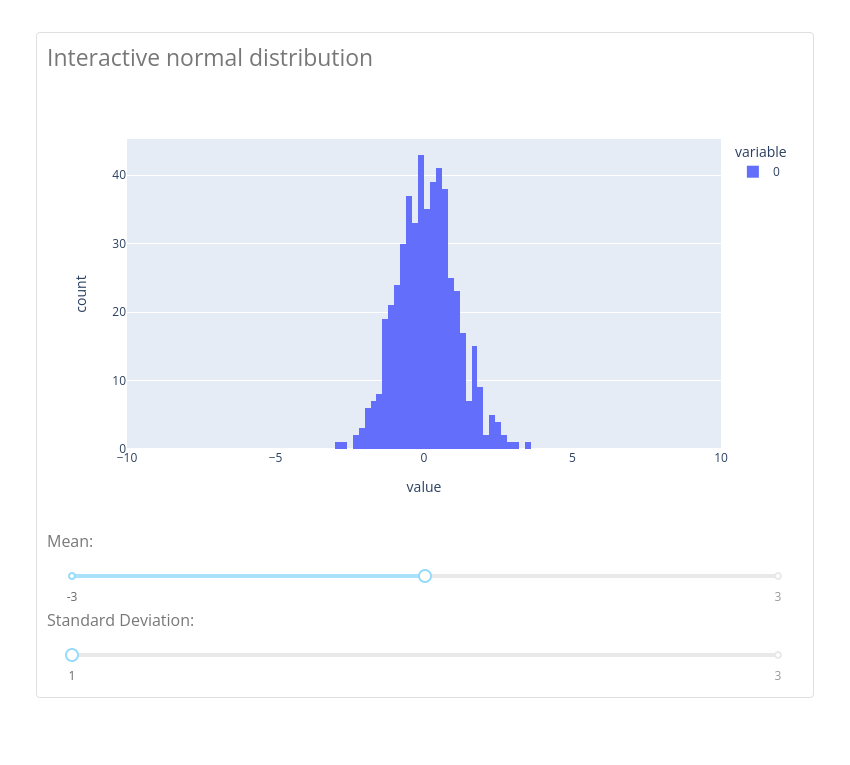
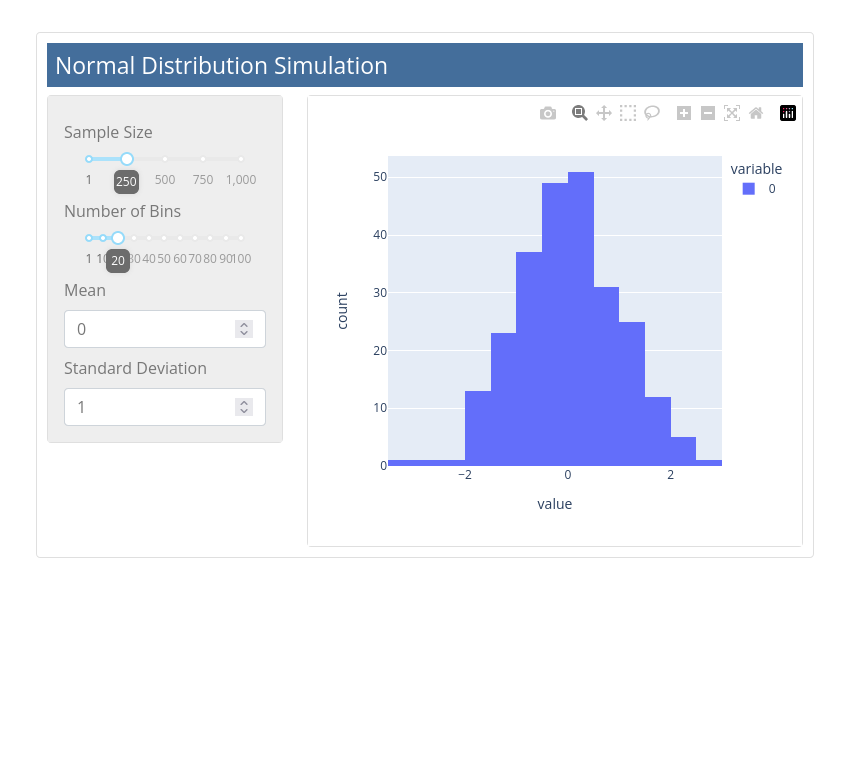
updated histogram app

diff --git a/examples/histograms.py b/examples/histograms.py
@@ -1,35 +1,80 @@
-from dash import Dash, dcc, html, Input, Output
-import plotly.express as px
+from dash import Dash, html, dcc, Input, Output
 import numpy as np
+import plotly.express as px
+import dash_bootstrap_components as dbc
 
-app = Dash(__name__)
+app = Dash(__name__, external_stylesheets=[dbc.themes.SPACELAB])
 
+heading = html.H4(
+    "Normal Distribution Simulation", className="bg-primary text-white p-2"
+)
+
+
+sample_size = html.Div(
+    [
+        dbc.Label("Sample Size", html_for="size"),
+        dcc.Slider(1, 1000, value=250, id="histograms-x-size",
+            tooltip={"placement": "bottom", "always_visible": True},
+        ),
+    ],
+    className="mt-2",
+)
+
+
+n_bins = html.Div(
+    [
+        dbc.Label("Number of Bins", html_for="n_bins"),
+        dcc.Slider(1, 100, 10, value=20, id="histograms-x-n_bins",
+            tooltip={"placement": "bottom", "always_visible": True},
+        ),
+    ],
+    className="mt-2",
+)
+
+mean = html.Div(
+    [dbc.Label("Mean", html_for="mean"), dbc.Input(id="histograms-x-mean", type="number", value=0)],
+    className="mt-2",
+)
+
+std_dev = html.Div(
+    [
+        dbc.Label("Standard Deviation", html_for="std_dev"),
+        dbc.Input(id="histograms-x-std_dev",type="number", value=1),
+    ],
+    className="mt-2",
+)
+
+control_panel = dbc.Card(
+    dbc.CardBody(
+        [sample_size, n_bins, mean, std_dev],
+        className="bg-light",
+    )
+)
+
+graph = dbc.Card(
+    [html.Div(id="histograms-x-error_msg", className="text-danger"), dcc.Graph(id="histograms-x-graph")]
+)
 
 app.layout = html.Div(
-    [
-        html.H4("Interactive normal distribution"),
-        dcc.Graph(id="histograms-x-graph"),
-        html.P("Mean:"),
-        dcc.Slider(
-            id="histograms-x-mean", min=-3, max=3, value=0, marks={-3: "-3", 3: "3"}
-        ),
-        html.P("Standard Deviation:"),
-        dcc.Slider(
-            id="histograms-x-std", min=1, max=3, value=1, marks={1: "1", 3: "3"}
-        ),
-    ]
+    [heading, dbc.Row([dbc.Col(control_panel, md=4), dbc.Col(graph, md=8)])]
 )
 
 
 @app.callback(
     Output("histograms-x-graph", "figure"),
+    Output("histograms-x-error_msg", "children"),
     Input("histograms-x-mean", "value"),
-    Input("histograms-x-std", "value"),
+    Input("histograms-x-std_dev", "value"),
+    Input("histograms-x-n_bins", "value"),
+    Input("histograms-x-size", "value"),
 )
-def display_color(mean, std):
-    data = np.random.normal(mean, std, size=500)
-    fig = px.histogram(data, range_x=[-10, 10])
-    return fig
+def callback(m, std_dev, n_bins, n):
+    if m is None or std_dev is None:
+        return {}, "Please enter Standard Deviation and Mean"
+    if std_dev < 0:
+        return {}, "Please enter Standard Deviation > 0"
+    data = np.random.normal(m, std_dev, n)
+    return px.histogram(data, nbins=n_bins), None
 
 
 if __name__ == "__main__":

diff --git a/pages/histograms.py b/pages/histograms.py
@@ -1,6 +1,6 @@
 import dash
 
-from lib.code_and_show import example_app
+from lib.code_and_show import example_app, make_app_first
 
 
 dash.register_page(
@@ -21,4 +21,4 @@ notes = """
 This example app was contributed by [Plotly](https://plotly.com/python/)
 """
 
-layout = example_app(filename, notes=notes)
+layout = example_app(filename, notes=notes, make_layout=make_app_first)

diff --git a/lib/code_and_show.py b/lib/code_and_show.py
@@ -123,7 +123,7 @@ def make_app_first(code, show_app, notes):
             dbc.Col(
                 dbc.Card(
                     [make_code_div(code)],
-                    style={"height": "700px", "overflow": "auto"},
+                    style={"height": "700px", "overflow": "auto", "marginTop":10},
                 ),
                 width=12,
             )
